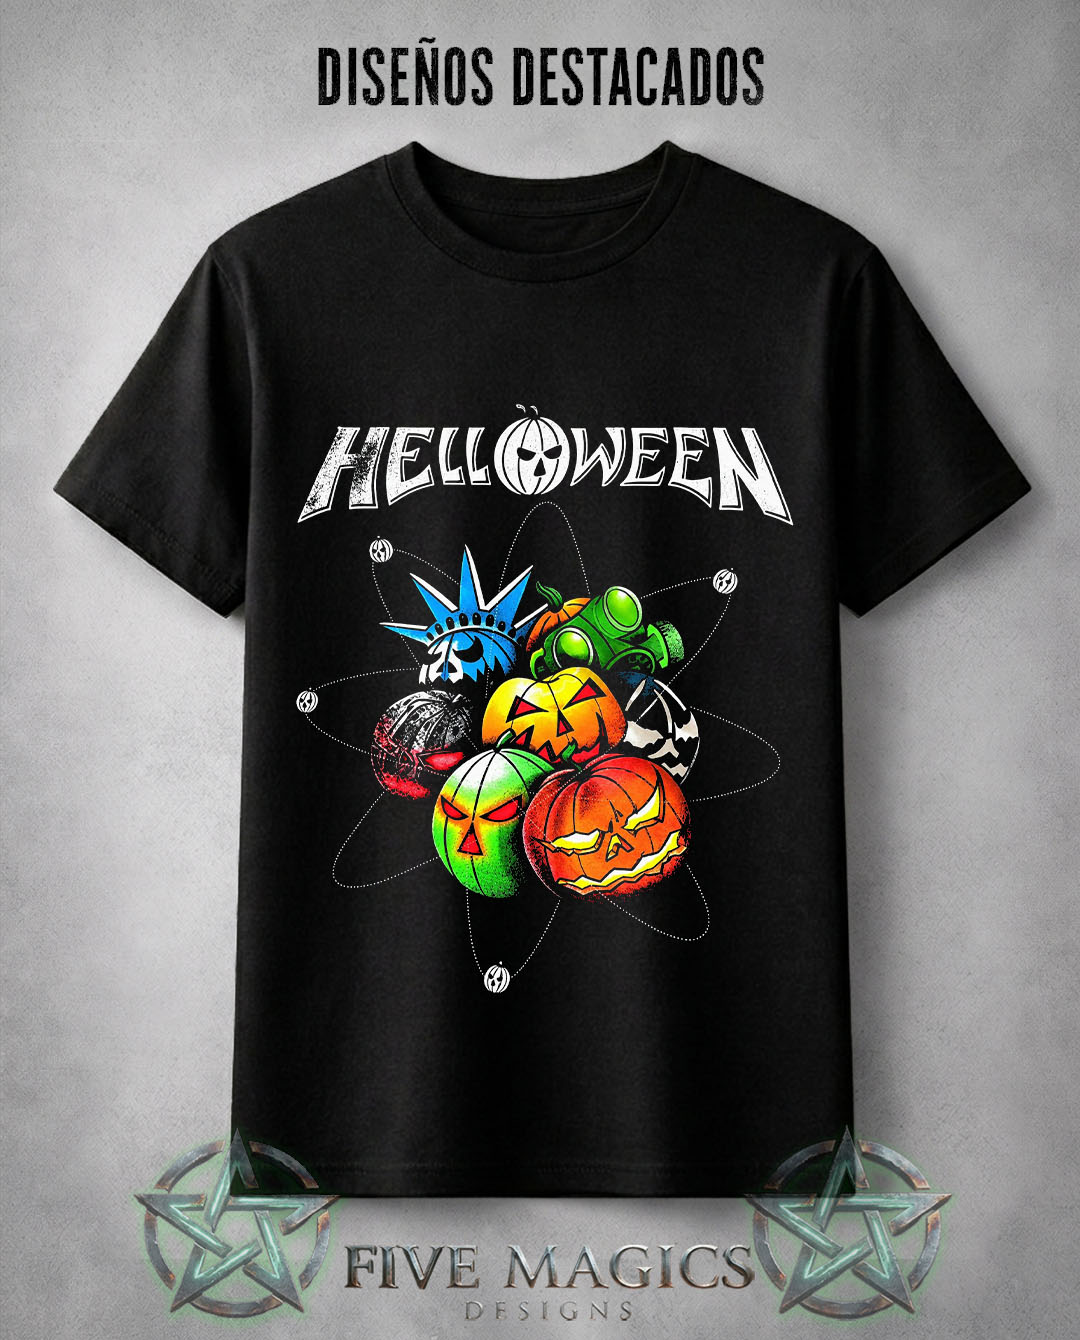
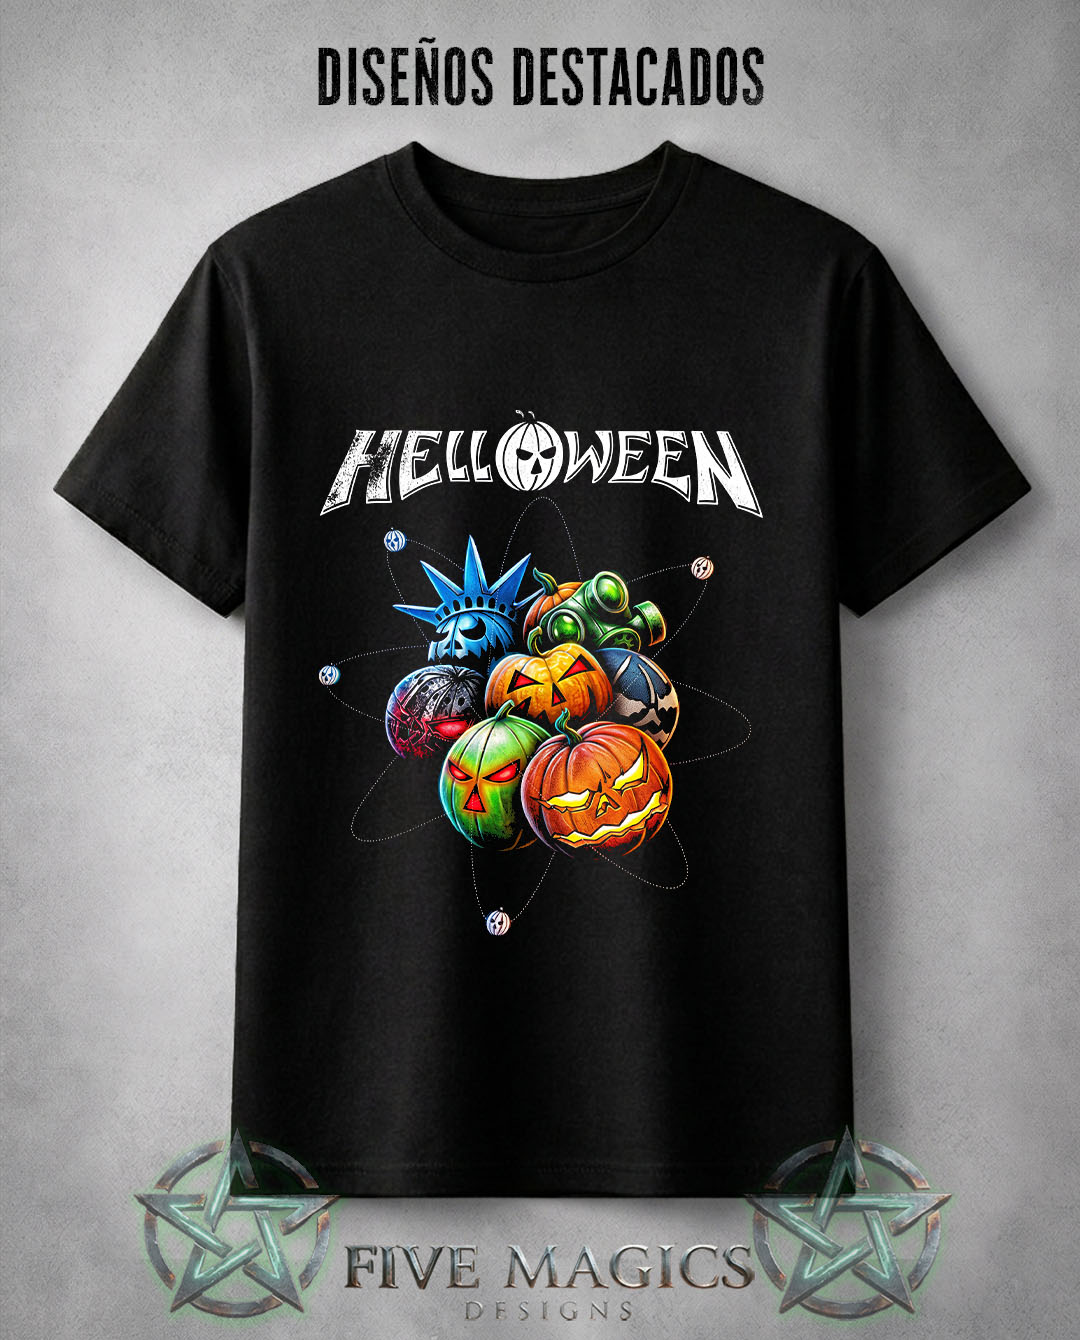
Update latest Helloween designs

Changed region(s): [[0.275, 0.306, 0.7333, 0.7343], [0.275, 0.4896, 0.3361, 0.5507]]

diff --git a/helloween/index.html b/helloween/index.html
@@ -37,7 +37,7 @@
         function gtag(){dataLayer.push(arguments);}
         gtag('js', new Date());
         gtag('config', 'G-1H3XPM82ED');
-        window.FMD_BAND_LANDING = Object.freeze({"band":"Helloween","slug":"helloween","defaultGarment":"remera","defaultCollection":"","usesShownComposition":false,"usesShownCompositionGarments":[],"collections":[{"id":"show-2026","label":"SHOW 2026","match":{"designIds":["helloween-eagle-fly-free","helloween-pumpkin-buenos-aires-edicion-fmd","helloween-40-years-tour-buenos-aires","helloween-buenos-aires-2026","helloween-40-tour","helloween-40-years-anniversary-tour-v1","helloween-40-years-anniversary-tour-v2","helloween-40-years-anniversary-tour-v3","helloween-40-years-tour-latin-america-2026","helloween-40-years-the-tracks","helloween-40th-anniversary-logo","helloween-40-years","helloween-giants-and-monsters-buenos-aires","helloween-40-years-tour-merch","helloween-40-years-tour-circular","helloween-dr-stein-40-years"]}},{"id":"originales-fmd","label":"ORIGINALES FMD","match":{"designIds":["helloween-dr-stein-arte-original-fmd","helloween-keeper-of-the-seven-keys-part-i-arte-original-fmd","helloween-keeper-of-the-seven-keys-parts-i-ii-arte-original-fmd","helloween-drunk-pumpkin-arte-original-fmd","helloween-universe-arte-original-fmd","helloween-savage-pumpkins-arte-original-fmd"]}},{"id":"era-1985-1989","label":"1985-1989","match":{"designIds":["helloween-walls-of-jericho","helloween-keeper-of-the-seven-keys-part-i","helloween-keeper-of-the-seven-keys-parts-i-ii-arte-original-fmd","helloween-keepers","helloween-keeper-of-the-seven-keys-part-i-arte-original-fmd","helloween-future-world","helloween-future-world-pumpkin-guitarist","helloween-keeper-of-the-seven-keys-part-ii","helloween-eagle-fly-free","helloween-i-want-out","helloween-dr-stein","helloween-dr-stein-arte-original-fmd","helloween-march-of-time","helloween-live-in-the-uk"]}},{"id":"era-1990-1999","label":"1990-1999","match":{"designIds":["helloween-master","helloween-the-time-of-the-oath","helloween-the-time","helloween-better-than-raw","helloween-metal-jukebox"]}},{"id":"era-2000-2009","label":"2000-2009","match":{"designIds":["helloween-the-dark-ride","helloween-the-legacy","helloween-gambling-with-the-devil"]}},{"id":"era-2010-2019","label":"2010-2019","match":{"designIds":["helloween-7-sinners","helloween-straight-out-of-hell","helloween-pumpkins-united","helloween-pumpkins-united-ii","helloween-pumpkins-united-seven-pumpkins","helloween-pumpkins-united-tour-2017-2018-v1","helloween-pumpkins-united-tour-2017-2018-v2","helloween-united-alive","helloween-pumpkins-united-iconos"]}},{"id":"actuales","label":"ACTUALES","match":{"designIds":["helloween-helloween-2021","helloween-giants-and-monsters","helloween-into-the-sun","helloween-into-the-sun-v2","helloween-united-forces","helloween-giants-and-monsters-buenos-aires"]}},{"id":"iconos","label":"CLASICOS E ICONOS","match":{"designIds":["helloween-angel-demonio","helloween-established-1984","helloween-pumpkin-logo","helloween-pumpkin-wizard","helloween-angel-pumpkin","helloween-drunk-pumpkin","helloween-drunk-pumpkin-arte-original-fmd","helloween-fire-pumpkin","helloween-skull-pumpkin","helloween-pumpkin-guitarist","helloween-pumpkin-rocker","helloween-pumpkin-boxer","helloween-savage-pumpkins","helloween-savage-pumpkins-arte-original-fmd","helloween-keeper-of-time","helloween-master-of-keys","helloween-universe","helloween-universe-arte-original-fmd"]}}],"designOrder":["helloween-eagle-fly-free","helloween-pumpkin-buenos-aires-edicion-fmd","helloween-40-years-tour-buenos-aires","helloween-angel-demonio","helloween-keeper-of-the-seven-keys-parts-i-ii-arte-original-fmd","helloween-dr-stein-arte-original-fmd","helloween-dr-stein-40-years","helloween-pumpkins-united-iconos","helloween-i-want-out","helloween-pumpkin-boxer","helloween-giants-and-monsters-buenos-aires","helloween-40-years-tour-merch","helloween-40-years-tour-circular","helloween-drunk-pumpkin-arte-original-fmd","helloween-universe-arte-original-fmd","helloween-future-world-pumpkin-guitarist","helloween-savage-pumpkins-arte-original-fmd","helloween-buenos-aires-2026","helloween-40-tour","helloween-40-years-anniversary-tour-v1","helloween-40-years-anniversary-tour-v2","helloween-40-years-anniversary-tour-v3","helloween-40-years-tour-latin-america-2026","helloween-40-years-the-tracks","helloween-40th-anniversary-logo","helloween-40-years","helloween-walls-of-jericho","helloween-keeper-of-the-seven-keys-part-i","helloween-keepers","helloween-keeper-of-the-seven-keys-part-i-arte-original-fmd","helloween-future-world","helloween-keeper-of-the-seven-keys-part-ii","helloween-dr-stein","helloween-march-of-time","helloween-live-in-the-uk","helloween-master","helloween-the-time-of-the-oath","helloween-the-time","helloween-better-than-raw","helloween-metal-jukebox","helloween-the-dark-ride","helloween-the-legacy","helloween-gambling-with-the-devil","helloween-7-sinners","helloween-straight-out-of-hell","helloween-pumpkins-united","helloween-pumpkins-united-ii","helloween-pumpkins-united-seven-pumpkins","helloween-pumpkins-united-tour-2017-2018-v1","helloween-pumpkins-united-tour-2017-2018-v2","helloween-united-alive","helloween-helloween-2021","helloween-giants-and-monsters","helloween-into-the-sun","helloween-into-the-sun-v2","helloween-united-forces","helloween-established-1984","helloween-pumpkin-logo","helloween-pumpkin-wizard","helloween-angel-pumpkin","helloween-drunk-pumpkin","helloween-fire-pumpkin","helloween-skull-pumpkin","helloween-pumpkin-guitarist","helloween-pumpkin-rocker","helloween-savage-pumpkins","helloween-keeper-of-time","helloween-master-of-keys","helloween-universe"],"prominentAllDesigns":null,"retiredDesignIds":[],"curatedDesignCategories":{},"sharedDesignIds":[],"sharedBands":[],"albumOrder":[],"productionNotice":"","modalBackCarouselDesignIds":["helloween-eagle-fly-free"],"suppressNewBadges":true,"editorialBadges":{"helloween-eagle-fly-free":"EDICIÓN BUENOS AIRES","helloween-pumpkin-buenos-aires-edicion-fmd":"EDICIÓN BUENOS AIRES","helloween-40-years-tour-buenos-aires":"EDICIÓN BUENOS AIRES","helloween-buenos-aires-2026":"EDICIÓN BUENOS AIRES","helloween-40-tour":"TOUR 2026","helloween-40-years-anniversary-tour-v1":"TOUR 2026","helloween-40-years-anniversary-tour-v2":"TOUR 2026","helloween-40-years-anniversary-tour-v3":"TOUR 2026","helloween-40-years-tour-latin-america-2026":"TOUR 2026","helloween-40-years-the-tracks":"TOUR 2026","helloween-40th-anniversary-logo":"TOUR 2026","helloween-40-years":"TOUR 2026","helloween-giants-and-monsters-buenos-aires":"EDICIÓN BUENOS AIRES","helloween-40-years-tour-merch":"TOUR 2026","helloween-40-years-tour-circular":"TOUR 2026","helloween-dr-stein-arte-original-fmd":"ORIGINAL FMD","helloween-keeper-of-the-seven-keys-part-i-arte-original-fmd":"ORIGINAL FMD","helloween-keeper-of-the-seven-keys-parts-i-ii-arte-original-fmd":"ORIGINAL FMD","helloween-drunk-pumpkin-arte-original-fmd":"ORIGINAL FMD","helloween-universe-arte-original-fmd":"ORIGINAL FMD","helloween-savage-pumpkins-arte-original-fmd":"ORIGINAL FMD"},"showcase":{"campaignPreview":"helloween-show-2026","title":"DISEÑOS DESTACADOS","copy":"Clásicos, tour y originales FMD. Tocá uno para verlo en detalle.","ctaLabel":"VER TODOS LOS DISEÑOS","durationSeconds":72,"order":["helloween-eagle-fly-free","helloween-pumpkin-buenos-aires-edicion-fmd","helloween-40-years-tour-buenos-aires","helloween-angel-demonio","helloween-keeper-of-the-seven-keys-parts-i-ii-arte-original-fmd","helloween-dr-stein-arte-original-fmd","helloween-dr-stein-40-years","helloween-pumpkins-united-iconos","helloween-i-want-out","helloween-pumpkin-boxer","helloween-drunk-pumpkin-arte-original-fmd","helloween-universe-arte-original-fmd","helloween-future-world-pumpkin-guitarist","helloween-savage-pumpkins-arte-original-fmd","helloween-keeper-of-the-seven-keys-part-i","helloween-better-than-raw","helloween-gambling-with-the-devil","helloween-40-tour","helloween-dr-stein","helloween-walls-of-jericho","helloween-pumpkins-united","helloween-into-the-sun","helloween-40-years-anniversary-tour-v1","helloween-the-dark-ride","helloween-future-world","helloween-keeper-of-the-seven-keys-part-ii","helloween-pumpkin-wizard","helloween-buenos-aires-2026","helloween-7-sinners","helloween-pumpkin-guitarist","helloween-the-legacy","helloween-metal-jukebox","helloween-40-years-anniversary-tour-v2","helloween-pumpkins-united-ii","helloween-fire-pumpkin","helloween-angel-pumpkin","helloween-universe","helloween-giants-and-monsters","helloween-straight-out-of-hell","helloween-pumpkins-united-tour-2017-2018-v1","helloween-into-the-sun-v2","helloween-skull-pumpkin","helloween-united-alive","helloween-40th-anniversary-logo","helloween-drunk-pumpkin","helloween-savage-pumpkins","helloween-march-of-time","helloween-pumpkin-logo","helloween-master","helloween-established-1984","helloween-keeper-of-time","helloween-pumpkin-rocker","helloween-pumpkins-united-tour-2017-2018-v2","helloween-40-years-anniversary-tour-v3","helloween-live-in-the-uk","helloween-the-time-of-the-oath"]}});
+        window.FMD_BAND_LANDING = Object.freeze({"band":"Helloween","slug":"helloween","defaultGarment":"remera","defaultCollection":"","usesShownComposition":false,"usesShownCompositionGarments":[],"collections":[{"id":"show-2026","label":"SHOW 2026","match":{"designIds":["helloween-eagle-fly-free","helloween-pumpkin-buenos-aires-edicion-fmd","helloween-40-years-tour-buenos-aires","helloween-buenos-aires-2026","helloween-40-tour","helloween-40-years-anniversary-tour-v1","helloween-40-years-anniversary-tour-v2","helloween-40-years-anniversary-tour-v3","helloween-40-years-tour-latin-america-2026","helloween-40-years-the-tracks","helloween-40th-anniversary-logo","helloween-40-years","helloween-giants-and-monsters-buenos-aires","helloween-40-years-tour-merch","helloween-40-years-tour-circular","helloween-dr-stein-40-years"]}},{"id":"originales-fmd","label":"ORIGINALES FMD","match":{"designIds":["helloween-dr-stein-arte-original-fmd","helloween-keeper-of-the-seven-keys-part-i-arte-original-fmd","helloween-keeper-of-the-seven-keys-parts-i-ii-arte-original-fmd","helloween-drunk-pumpkin-arte-original-fmd","helloween-universe-arte-original-fmd","helloween-savage-pumpkins-arte-original-fmd"]}},{"id":"era-1985-1989","label":"1985-1989","match":{"designIds":["helloween-walls-of-jericho","helloween-keeper-of-the-seven-keys-part-i","helloween-keeper-of-the-seven-keys-parts-i-ii-arte-original-fmd","helloween-keepers","helloween-keeper-of-the-seven-keys-part-i-arte-original-fmd","helloween-future-world","helloween-future-world-pumpkin-guitarist","helloween-keeper-of-the-seven-keys-part-ii","helloween-eagle-fly-free","helloween-i-want-out","helloween-keeper-united","helloween-dr-stein","helloween-dr-stein-arte-original-fmd","helloween-march-of-time","helloween-live-in-the-uk"]}},{"id":"era-1990-1999","label":"1990-1999","match":{"designIds":["helloween-master","helloween-the-time-of-the-oath","helloween-the-time","helloween-better-than-raw","helloween-metal-jukebox"]}},{"id":"era-2000-2009","label":"2000-2009","match":{"designIds":["helloween-the-dark-ride","helloween-the-legacy","helloween-gambling-with-the-devil"]}},{"id":"era-2010-2019","label":"2010-2019","match":{"designIds":["helloween-7-sinners","helloween-straight-out-of-hell","helloween-pumpkins-united","helloween-pumpkins-united-ii","helloween-pumpkins-united-seven-pumpkins","helloween-pumpkins-united-tour-2017-2018-v1","helloween-pumpkins-united-tour-2017-2018-v2","helloween-united-alive","helloween-pumpkins-united-iconos"]}},{"id":"actuales","label":"ACTUALES","match":{"designIds":["helloween-helloween-2021","helloween-giants-and-monsters","helloween-into-the-sun","helloween-into-the-sun-v2","helloween-united-forces","helloween-giants-and-monsters-buenos-aires","helloween-giants-and-monsters-pumpkins"]}},{"id":"iconos","label":"CLASICOS E ICONOS","match":{"designIds":["helloween-angel-demonio","helloween-established-1984","helloween-pumpkin-logo","helloween-pumpkin-wizard","helloween-angel-pumpkin","helloween-drunk-pumpkin","helloween-drunk-pumpkin-arte-original-fmd","helloween-fire-pumpkin","helloween-skull-pumpkin","helloween-pumpkin-guitarist","helloween-pumpkin-rocker","helloween-pumpkin-boxer","helloween-savage-pumpkins","helloween-savage-pumpkins-arte-original-fmd","helloween-keeper-of-time","helloween-master-of-keys","helloween-universe","helloween-universe-arte-original-fmd"]}}],"designOrder":["helloween-eagle-fly-free","helloween-pumpkin-buenos-aires-edicion-fmd","helloween-40-years-tour-buenos-aires","helloween-angel-demonio","helloween-keeper-of-the-seven-keys-parts-i-ii-arte-original-fmd","helloween-dr-stein-arte-original-fmd","helloween-dr-stein-40-years","helloween-pumpkins-united-iconos","helloween-i-want-out","helloween-pumpkin-boxer","helloween-keeper-united","helloween-giants-and-monsters-pumpkins","helloween-giants-and-monsters-buenos-aires","helloween-40-years-tour-merch","helloween-40-years-tour-circular","helloween-drunk-pumpkin-arte-original-fmd","helloween-universe-arte-original-fmd","helloween-future-world-pumpkin-guitarist","helloween-savage-pumpkins-arte-original-fmd","helloween-buenos-aires-2026","helloween-40-tour","helloween-40-years-anniversary-tour-v1","helloween-40-years-anniversary-tour-v2","helloween-40-years-anniversary-tour-v3","helloween-40-years-tour-latin-america-2026","helloween-40-years-the-tracks","helloween-40th-anniversary-logo","helloween-40-years","helloween-walls-of-jericho","helloween-keeper-of-the-seven-keys-part-i","helloween-keepers","helloween-keeper-of-the-seven-keys-part-i-arte-original-fmd","helloween-future-world","helloween-keeper-of-the-seven-keys-part-ii","helloween-dr-stein","helloween-march-of-time","helloween-live-in-the-uk","helloween-master","helloween-the-time-of-the-oath","helloween-the-time","helloween-better-than-raw","helloween-metal-jukebox","helloween-the-dark-ride","helloween-the-legacy","helloween-gambling-with-the-devil","helloween-7-sinners","helloween-straight-out-of-hell","helloween-pumpkins-united","helloween-pumpkins-united-ii","helloween-pumpkins-united-seven-pumpkins","helloween-pumpkins-united-tour-2017-2018-v1","helloween-pumpkins-united-tour-2017-2018-v2","helloween-united-alive","helloween-helloween-2021","helloween-giants-and-monsters","helloween-into-the-sun","helloween-into-the-sun-v2","helloween-united-forces","helloween-established-1984","helloween-pumpkin-logo","helloween-pumpkin-wizard","helloween-angel-pumpkin","helloween-drunk-pumpkin","helloween-fire-pumpkin","helloween-skull-pumpkin","helloween-pumpkin-guitarist","helloween-pumpkin-rocker","helloween-savage-pumpkins","helloween-keeper-of-time","helloween-master-of-keys","helloween-universe"],"prominentAllDesigns":null,"retiredDesignIds":[],"curatedDesignCategories":{},"sharedDesignIds":[],"sharedBands":[],"albumOrder":[],"productionNotice":"","modalBackCarouselDesignIds":["helloween-eagle-fly-free"],"suppressNewBadges":true,"editorialBadges":{"helloween-eagle-fly-free":"EDICIÓN BUENOS AIRES","helloween-pumpkin-buenos-aires-edicion-fmd":"EDICIÓN BUENOS AIRES","helloween-40-years-tour-buenos-aires":"EDICIÓN BUENOS AIRES","helloween-buenos-aires-2026":"EDICIÓN BUENOS AIRES","helloween-40-tour":"TOUR 2026","helloween-40-years-anniversary-tour-v1":"TOUR 2026","helloween-40-years-anniversary-tour-v2":"TOUR 2026","helloween-40-years-anniversary-tour-v3":"TOUR 2026","helloween-40-years-tour-latin-america-2026":"TOUR 2026","helloween-40-years-the-tracks":"TOUR 2026","helloween-40th-anniversary-logo":"TOUR 2026","helloween-40-years":"TOUR 2026","helloween-giants-and-monsters-buenos-aires":"EDICIÓN BUENOS AIRES","helloween-40-years-tour-merch":"TOUR 2026","helloween-40-years-tour-circular":"TOUR 2026","helloween-dr-stein-arte-original-fmd":"ORIGINAL FMD","helloween-keeper-of-the-seven-keys-part-i-arte-original-fmd":"ORIGINAL FMD","helloween-keeper-of-the-seven-keys-parts-i-ii-arte-original-fmd":"ORIGINAL FMD","helloween-drunk-pumpkin-arte-original-fmd":"ORIGINAL FMD","helloween-universe-arte-original-fmd":"ORIGINAL FMD","helloween-savage-pumpkins-arte-original-fmd":"ORIGINAL FMD"},"showcase":{"campaignPreview":"helloween-show-2026","title":"DISEÑOS DESTACADOS","copy":"Clásicos, tour y originales FMD. Tocá uno para verlo en detalle.","ctaLabel":"VER TODOS LOS DISEÑOS","durationSeconds":72,"order":["helloween-eagle-fly-free","helloween-pumpkin-buenos-aires-edicion-fmd","helloween-40-years-tour-buenos-aires","helloween-angel-demonio","helloween-keeper-of-the-seven-keys-parts-i-ii-arte-original-fmd","helloween-dr-stein-arte-original-fmd","helloween-dr-stein-40-years","helloween-pumpkins-united-iconos","helloween-i-want-out","helloween-pumpkin-boxer","helloween-keeper-united","helloween-drunk-pumpkin-arte-original-fmd","helloween-universe-arte-original-fmd","helloween-future-world-pumpkin-guitarist","helloween-savage-pumpkins-arte-original-fmd","helloween-keeper-of-the-seven-keys-part-i","helloween-better-than-raw","helloween-gambling-with-the-devil","helloween-40-tour","helloween-dr-stein","helloween-walls-of-jericho","helloween-pumpkins-united","helloween-into-the-sun","helloween-40-years-anniversary-tour-v1","helloween-the-dark-ride","helloween-future-world","helloween-keeper-of-the-seven-keys-part-ii","helloween-pumpkin-wizard","helloween-buenos-aires-2026","helloween-7-sinners","helloween-pumpkin-guitarist","helloween-the-legacy","helloween-metal-jukebox","helloween-40-years-anniversary-tour-v2","helloween-pumpkins-united-ii","helloween-fire-pumpkin","helloween-angel-pumpkin","helloween-universe","helloween-giants-and-monsters","helloween-straight-out-of-hell","helloween-pumpkins-united-tour-2017-2018-v1","helloween-into-the-sun-v2","helloween-skull-pumpkin","helloween-united-alive","helloween-40th-anniversary-logo","helloween-drunk-pumpkin","helloween-savage-pumpkins","helloween-march-of-time","helloween-pumpkin-logo","helloween-master","helloween-established-1984","helloween-keeper-of-time","helloween-pumpkin-rocker","helloween-pumpkins-united-tour-2017-2018-v2","helloween-40-years-anniversary-tour-v3","helloween-live-in-the-uk","helloween-the-time-of-the-oath"]}});
         if (Date.now() >= Date.parse("2026-09-13T23:00:00-03:00")) {
             document.documentElement.classList.add('fmd-post-show-active');
         }

diff --git a/js/band-archives-config.js b/js/band-archives-config.js
@@ -609,6 +609,7 @@
                     'helloween-pumpkins-united-iconos',
                     'helloween-i-want-out',
                     'helloween-pumpkin-boxer',
+                    'helloween-keeper-united',
                     'helloween-drunk-pumpkin-arte-original-fmd',
                     'helloween-universe-arte-original-fmd',
                     'helloween-future-world-pumpkin-guitarist',
@@ -668,6 +669,8 @@
                 'helloween-pumpkins-united-iconos',
                 'helloween-i-want-out',
                 'helloween-pumpkin-boxer',
+                'helloween-keeper-united',
+                'helloween-giants-and-monsters-pumpkins',
                 'helloween-giants-and-monsters-buenos-aires',
                 'helloween-40-years-tour-merch',
                 'helloween-40-years-tour-circular',
@@ -766,6 +769,7 @@
                     'helloween-keeper-of-the-seven-keys-part-ii',
                     'helloween-eagle-fly-free',
                     'helloween-i-want-out',
+                    'helloween-keeper-united',
                     'helloween-dr-stein',
                     'helloween-dr-stein-arte-original-fmd',
                     'helloween-march-of-time',
@@ -800,7 +804,8 @@
                     'helloween-into-the-sun',
                     'helloween-into-the-sun-v2',
                     'helloween-united-forces',
-                    'helloween-giants-and-monsters-buenos-aires'
+                    'helloween-giants-and-monsters-buenos-aires',
+                    'helloween-giants-and-monsters-pumpkins'
                 ] } },
                 { id: 'iconos', label: 'CLASICOS E ICONOS', match: { designIds: [
                     'helloween-angel-demonio',
